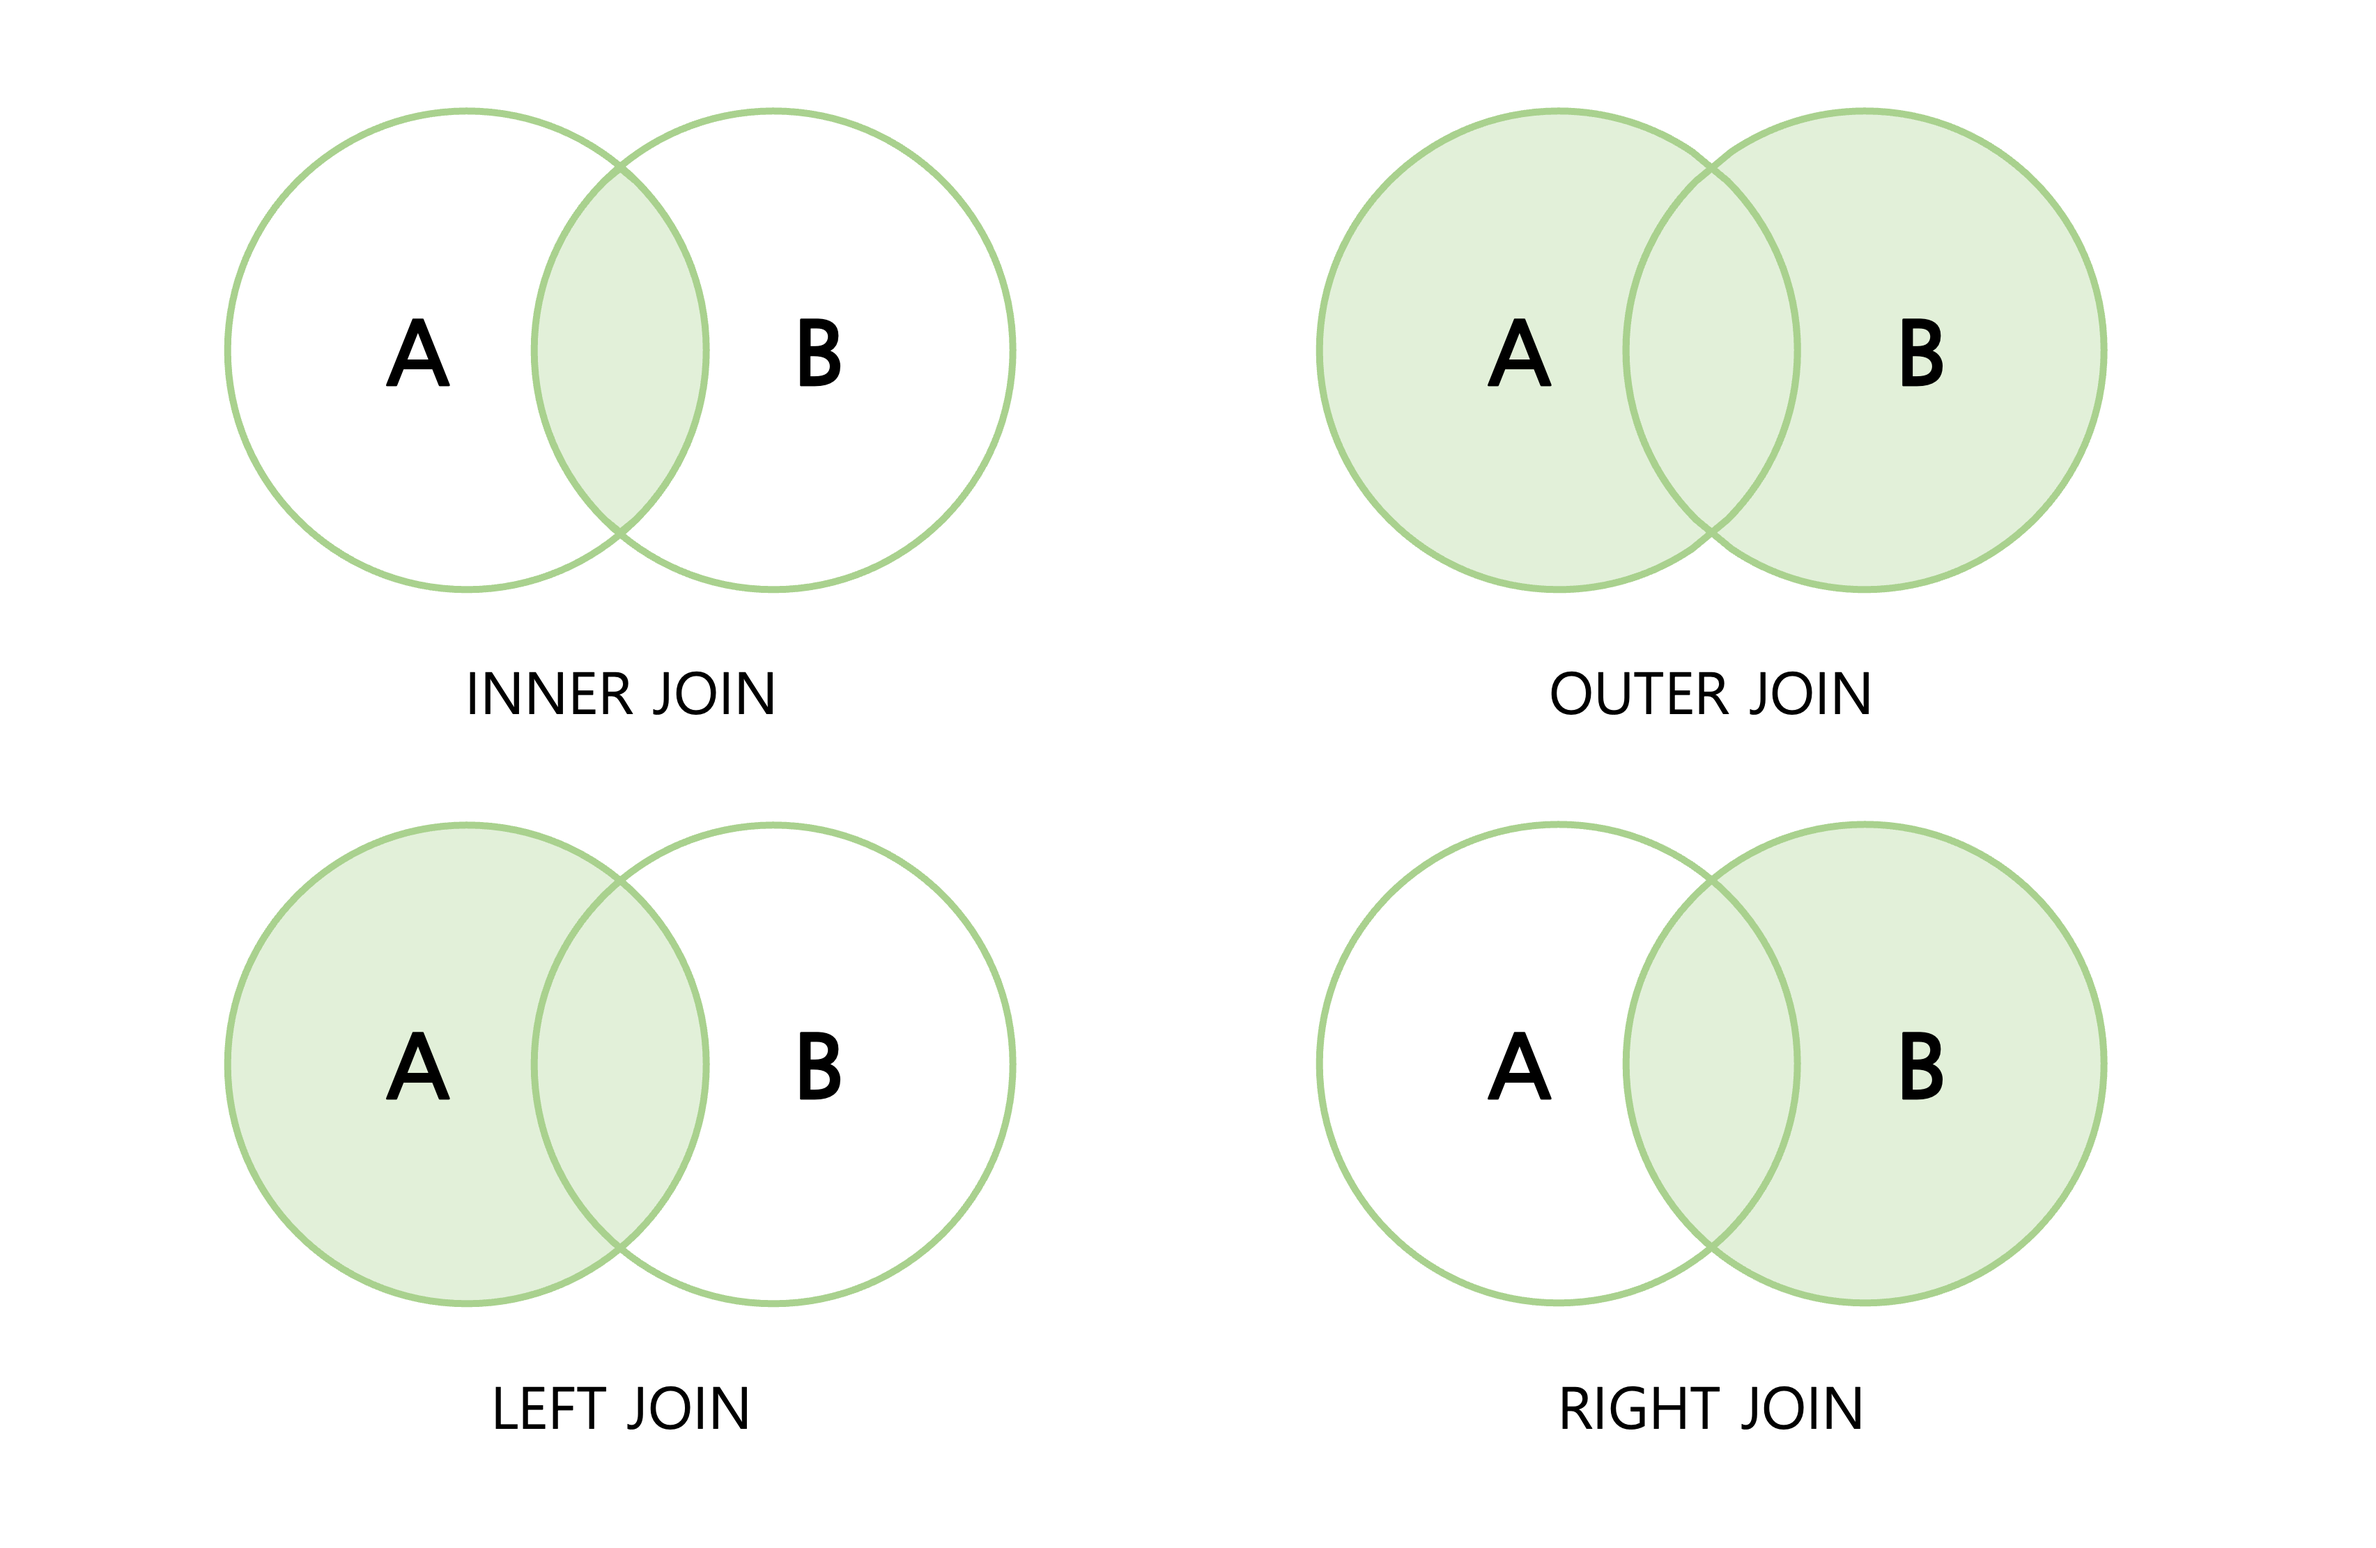
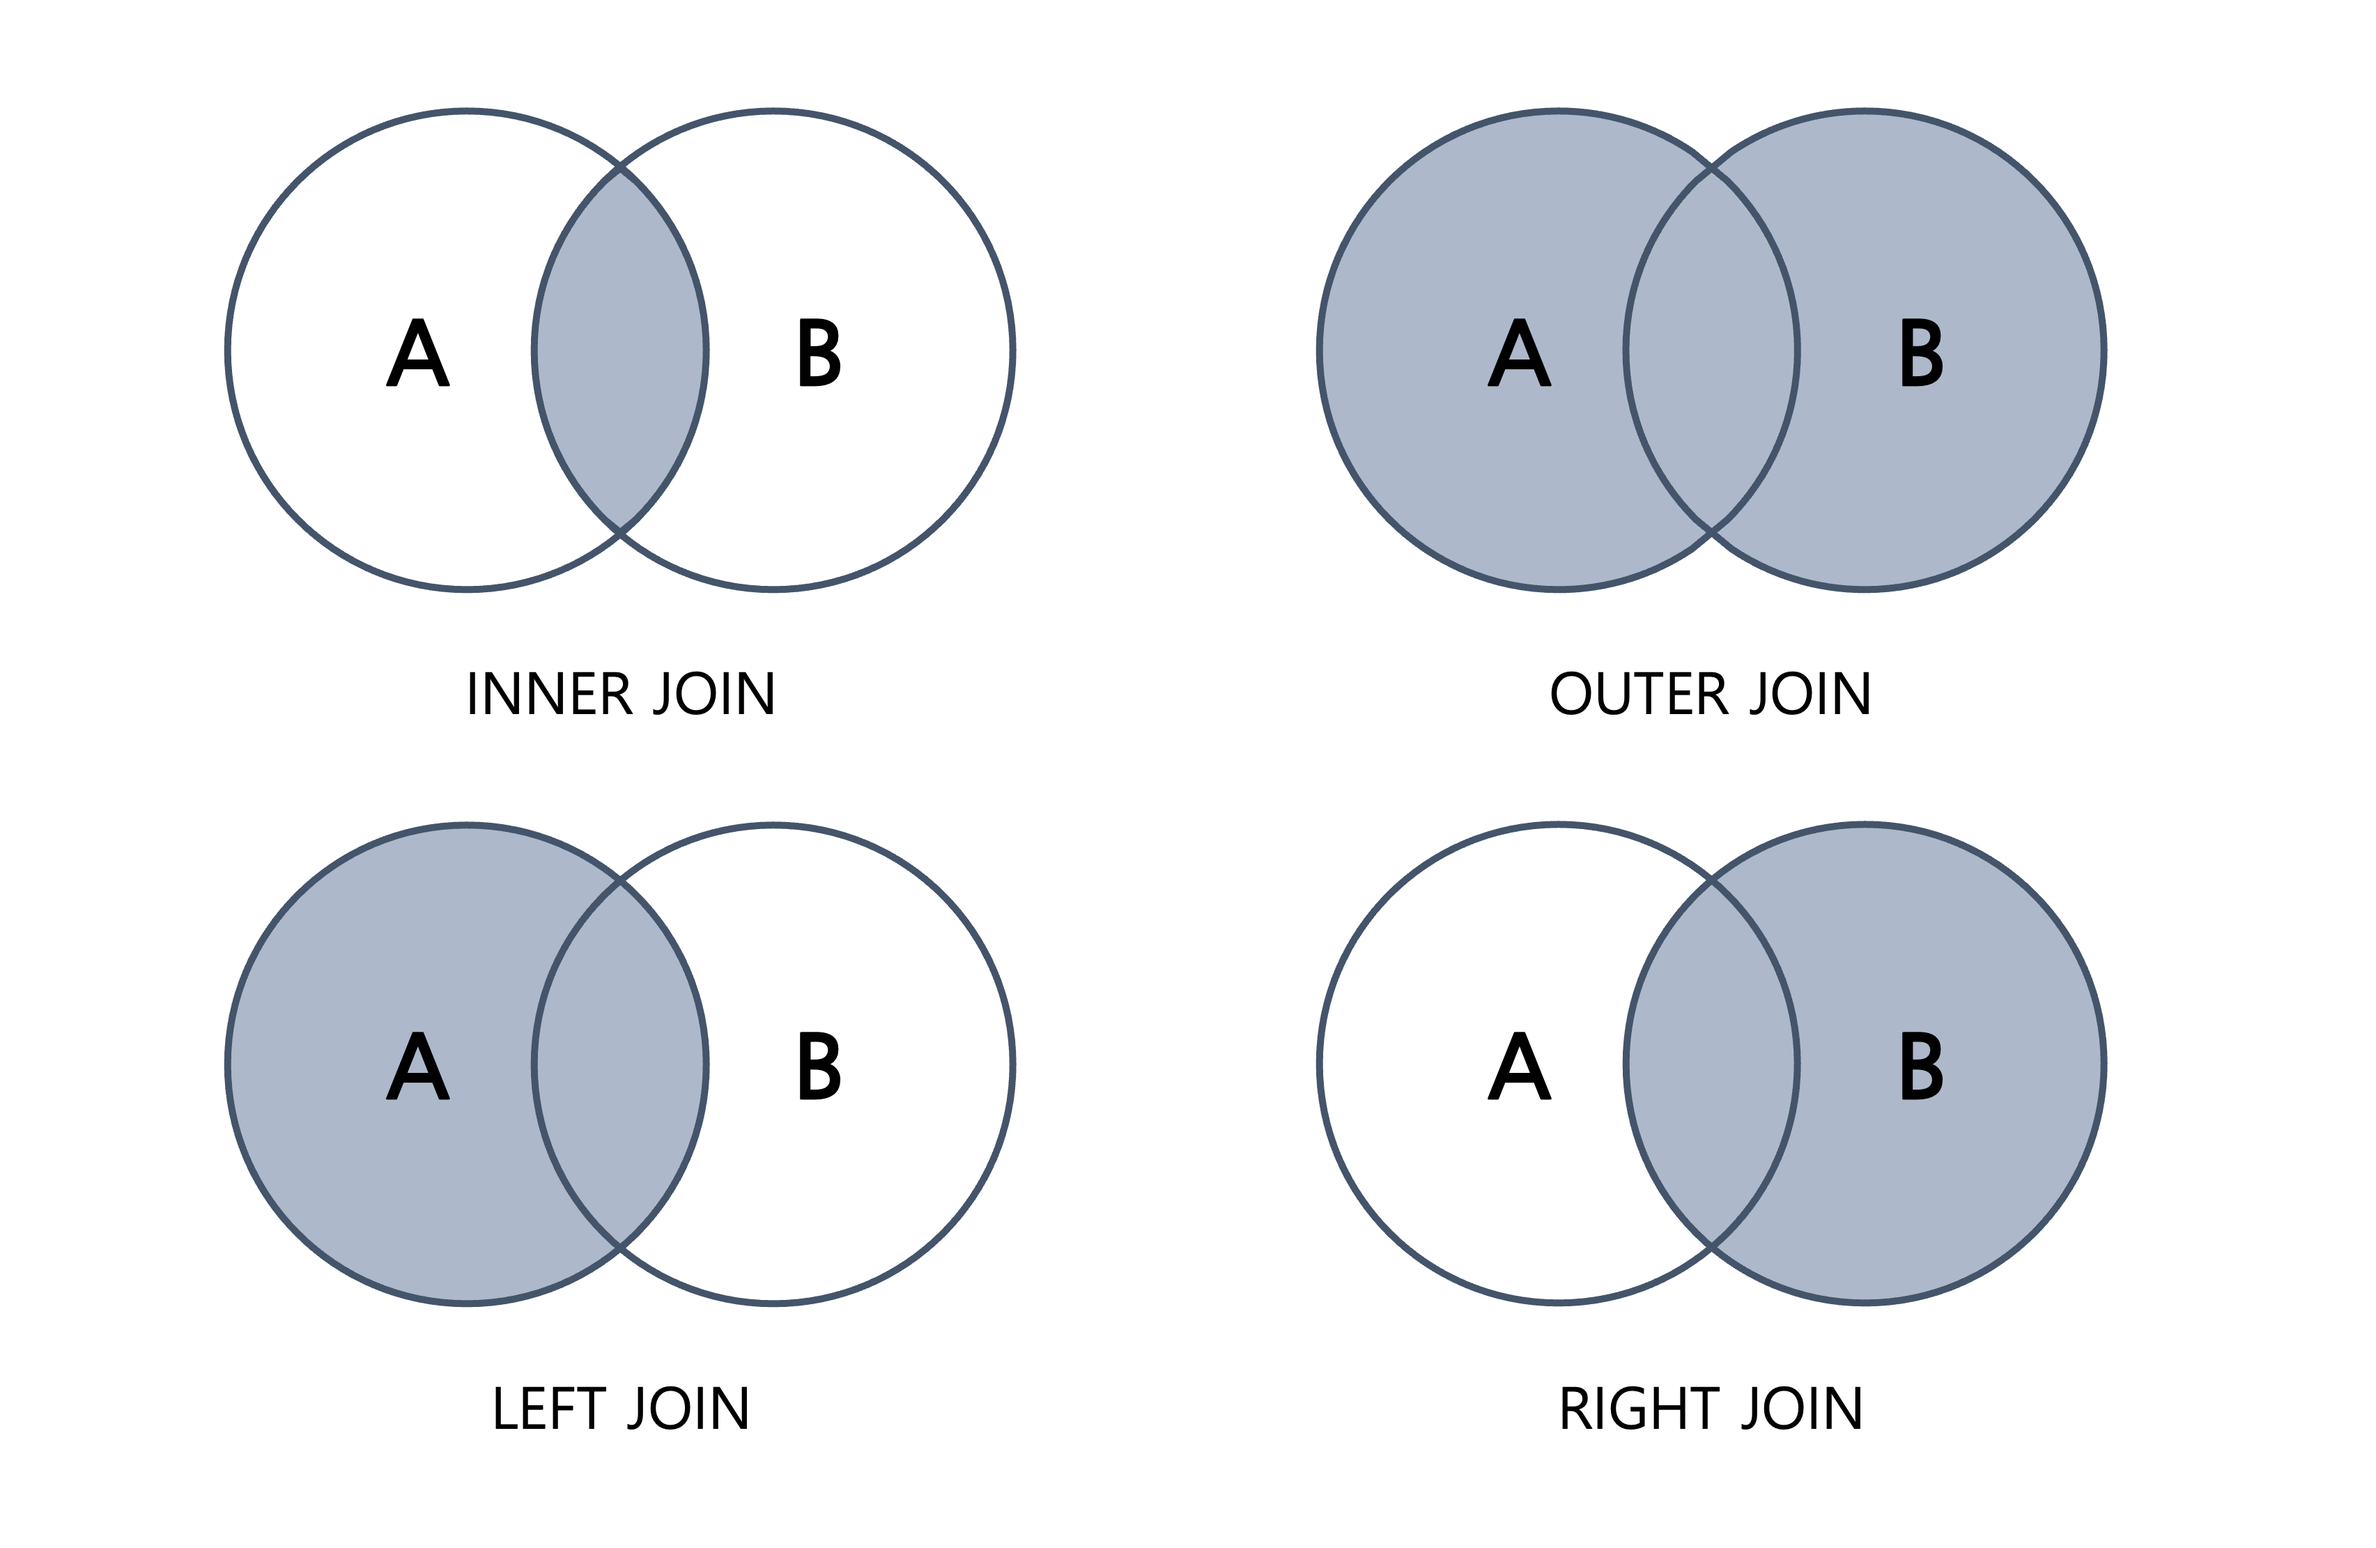
.

diff --git a/_posts/Sql/2022-11-15-sql-02.md b/_posts/Sql/2022-11-15-sql-02.md
@@ -15,7 +15,7 @@ toc_icon: "bars"
 
 ***
 
-# ✔ JOIN 
+# 1. JOIN 
 ```JOIN```은 데이터베이스 내의 여러 테이블을 조합해 하나의 테이블 또는 결과 집합으로 표현해 준다. ```JOIN```의 기본 문법은 다음과 같다.
 
 ```sql
@@ -36,7 +36,8 @@ ON condition
 <br>
 
 **조합 방식에 따른 JOIN 종류**
-![JOIN](/assets/images/sql/sql_join.png)
+![JOIN](/assets/images/sql/sql_join.png){: .align-center width="85%"}
+<center><small>JOIN 이미지 제작(PowerPoint)</small></center>
 
 
 ## (1) 교집합(INNER)
@@ -79,7 +80,7 @@ RIGHT JOIN table2 ON table1.필드 = table2.필드
 
 <br>
 
-# ✔ Reference
+# 2. Reference
 - [TCP SCHOOL.com, MySQL - JOIN](http://www.tcpschool.com/mysql/mysql_multipleTable_join)
 - [Google Cloud, 관계형 데이터베이스란 무엇인가요?](https://cloud.google.com/learn/what-is-a-relational-database?hl=ko)
 
